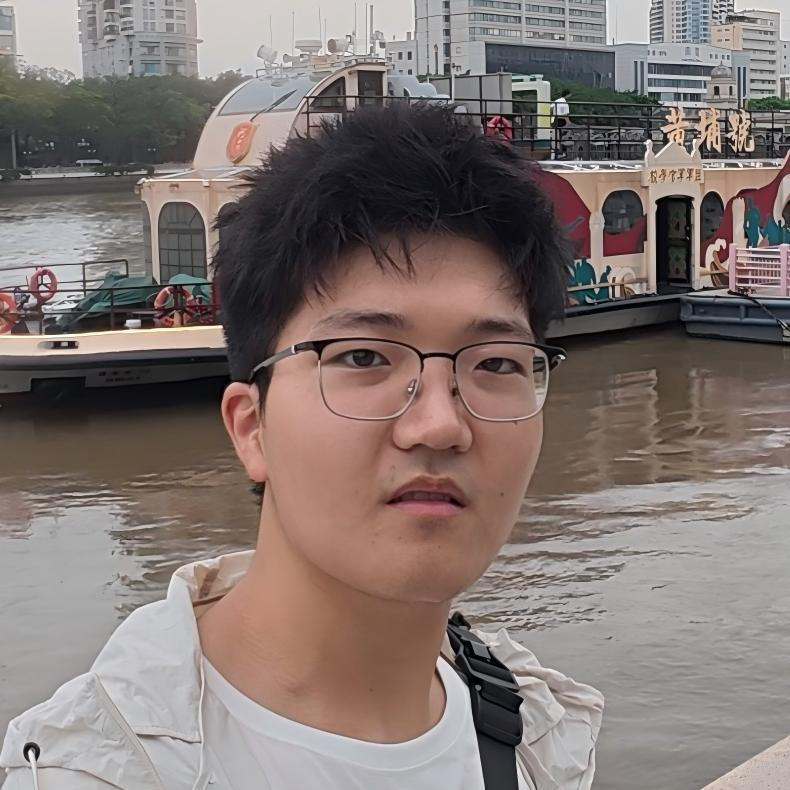
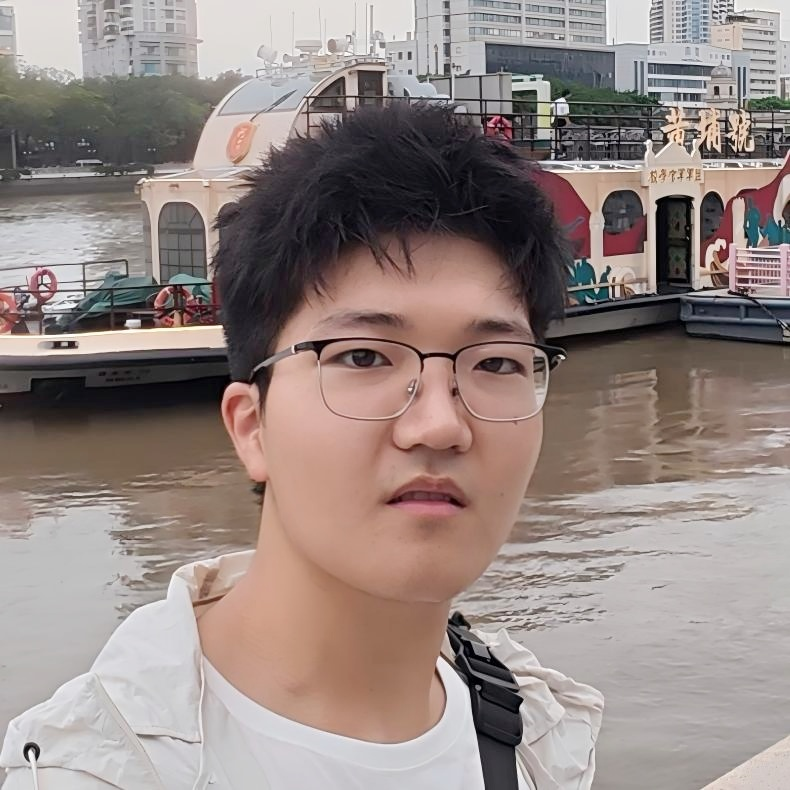
Update sitemap logic and profile image
- Update _pages/sitemap.md to respect 'sitemap: false' and 'hidden: true'
- Update profile.jpg with new image

diff --git a/_pages/sitemap.md b/_pages/sitemap.md
@@ -11,12 +11,16 @@ A list of all the posts and pages found on the site. For you robots out there, t
 
 <h2>Pages</h2>
 {% for post in site.pages %}
-  {% include archive-single.html %}
+  {% unless post.sitemap == false or post.hidden == true %}
+    {% include archive-single.html %}
+  {% endunless %}
 {% endfor %}
 
 <h2>Posts</h2>
 {% for post in site.posts %}
-  {% include archive-single.html %}
+  {% unless post.sitemap == false or post.hidden == true %}
+    {% include archive-single.html %}
+  {% endunless %}
 {% endfor %}
 
 {% capture written_label %}'None'{% endcapture %}
@@ -31,7 +35,9 @@ A list of all the posts and pages found on the site. For you robots out there, t
 {% endunless %}
 {% for post in collection.docs %}
   {% unless collection.output == false or collection.label == "posts" %}
-  {% include archive-single.html %}
+    {% unless post.sitemap == false or post.hidden == true %}
+      {% include archive-single.html %}
+    {% endunless %}
   {% endunless %}
 {% endfor %}
 {% endfor %}
